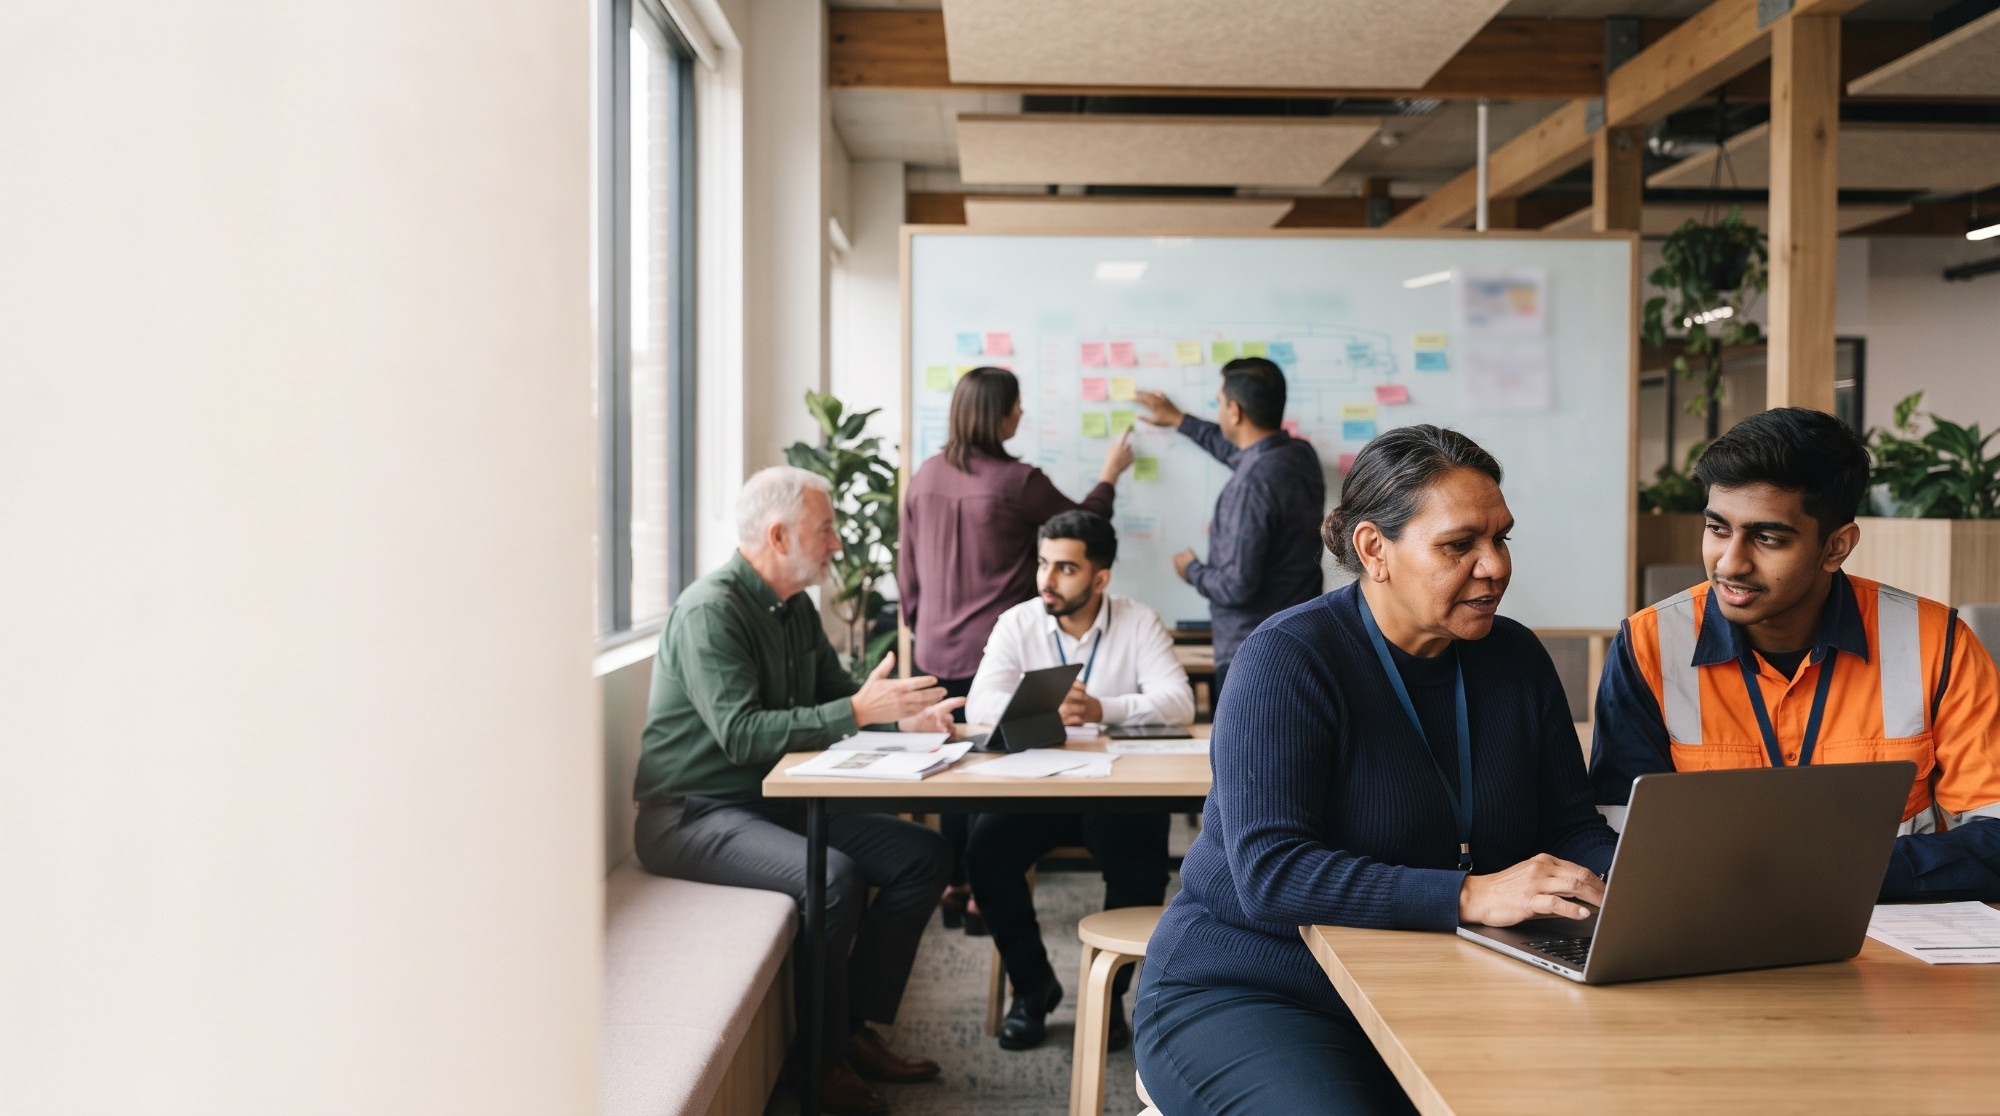
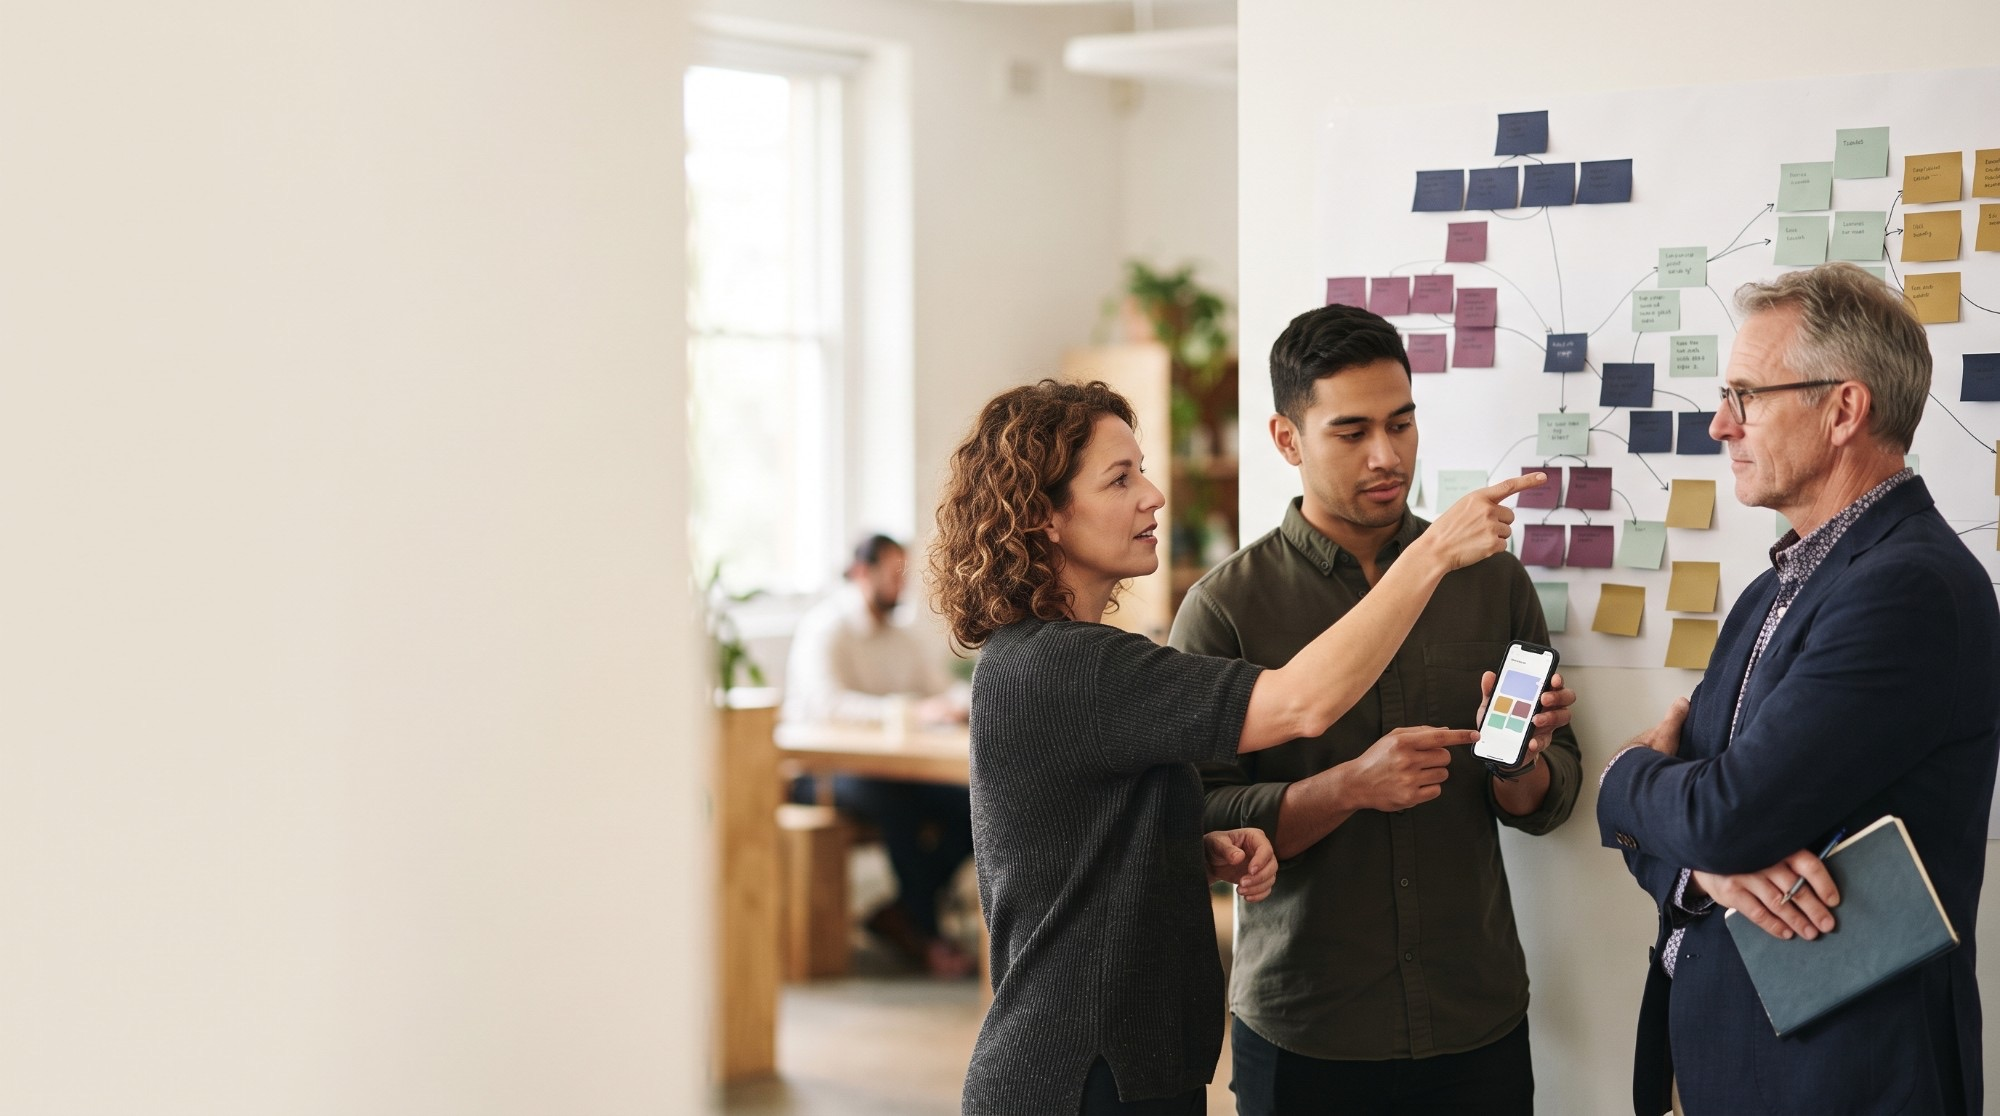
Replace home page hero with a product team at a service map
Matches the new product-thinking message: three people work through a
service map of connected sticky notes, one holding a phone prototype.
Checked for logos and readable fake text. Alt text is updated to match.
Employment Services keeps its own copy of the workplace photo.

diff --git a/index.html b/index.html
@@ -19,14 +19,14 @@
 <meta property="og:image" content="https://www.julianstevenson.com/assets/share.jpg">
 <meta property="og:image:width" content="1200">
 <meta property="og:image:height" content="630">
-<meta property="og:image:alt" content="An adviser and a young worker in hi-vis review a plan on a laptop while colleagues map a roadmap on a whiteboard and a mentor meets a jobseeker">
+<meta property="og:image:alt" content="Three colleagues work through a service map of connected sticky notes on a wall, one pointing while another holds up a phone prototype">
 <meta property="og:locale" content="en_AU">
 
 <meta name="twitter:card" content="summary_large_image">
 <meta name="twitter:title" content="SkillsJewels | Product for Education, Employment and Tech">
 <meta name="twitter:description" content="SkillsJewels brings product strategy, development and advisory to tertiary education, employment services and tech businesses, from first decision to working product.">
 <meta name="twitter:image" content="https://www.julianstevenson.com/assets/share.jpg">
-<meta name="twitter:image:alt" content="An adviser and a young worker in hi-vis review a plan on a laptop while colleagues map a roadmap on a whiteboard and a mentor meets a jobseeker">
+<meta name="twitter:image:alt" content="Three colleagues work through a service map of connected sticky notes on a wall, one pointing while another holds up a phone prototype">
 
 <script type="application/ld+json">
 {
@@ -111,7 +111,7 @@
       </div>
     </div>
   </header>
-  <img src="assets/hero.jpg" alt="An adviser and a young worker in hi-vis review a plan on a laptop while colleagues map a roadmap on a whiteboard and a mentor meets a jobseeker" class="sj-hero-photo" style="width: 100%; aspect-ratio: 16 / 10; object-fit: cover; object-position: 100% 40%;">
+  <img src="assets/hero.jpg" alt="Three colleagues work through a service map of connected sticky notes on a wall, one pointing while another holds up a phone prototype" class="sj-hero-photo" style="width: 100%; aspect-ratio: 16 / 10; object-fit: cover; object-position: 100% 40%;">
   </div>
 
   <section id="areas" style="border-top: 1px solid rgba(27,58,92,0.2);">
